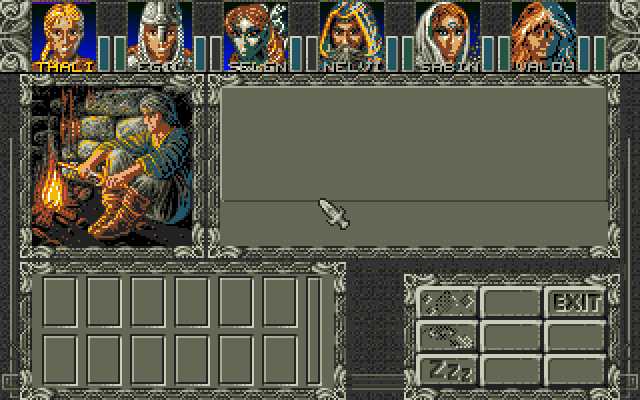
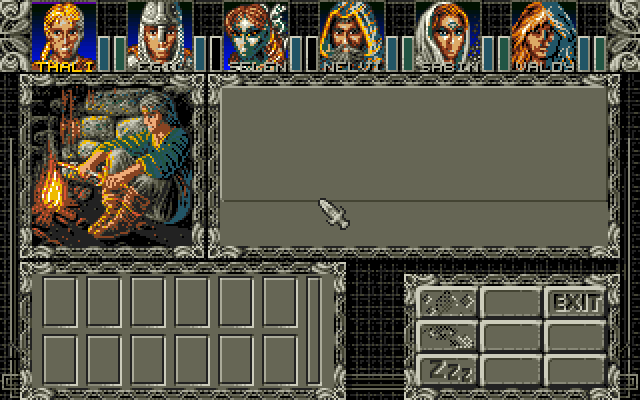
ST POC: value 0 of the layouts and UI graphics is black like on the Amiga
Put_unmasked_block (GRAPHICS.S) sets the bits of the base colour only where
the graphic is not 0 (Make_mask_blitter), so value 0 of the layouts and of
the 3 bit status block graphics is colour 0 (black), not colour 24. The grey
layout background in the UI palettes is no longer needed and removed again.
The empty portrait is drawn unmasked like in the original.

Claude-Session: https://claude.ai/code/session_017KUb8qa9fSBV81xJQCbgWy

diff --git a/AmbermoonST/tools/st_convert.py b/AmbermoonST/tools/st_convert.py
@@ -199,26 +199,16 @@ def st_graphic(pix, w, h):
     return bytes(out)
 
 
-# Layout background (ST slot 8, value 0 of the layouts) in the UI palettes : a dark grey instead of colour 24 of
-# Main_pal ($254, a dark green). The graphics which use colour 24 themselves (SP bar, portraits, items) get the
-# nearest other slot (colour 24 is one of the colours of the k-means there).
-LAYOUT_GREY = (51, 51, 51)
-
-
-def make_palette(palette, weights, ui_first=24, fixed=(), grey=False):
+def make_palette(palette, weights, ui_first=24, fixed=()):
     """16 colour palette with the slot layout described above. palette: 32 rgb, weights: 32 values.
     ui_first: first UI colour which gets a fixed slot (8 + colour - 24). In the map area colour 24 is not needed
     by the UI (value 0 of the layout and the buttons is drawn black), so slot 8 is another free slot there.
     fixed: colours which get the slots 1, 2, ... (e.g. white for the dragged items, see WHITE_SLOT).
-    grey: slot 8 is LAYOUT_GREY (see there).
     Returns (16 rgb, lookup table of 32 slots)."""
     ui = palette[ui_first:32]
-    if grey:
-        ui = [LAYOUT_GREY] + ui[1:]
     fix = [snap(palette[c], 4) for c in fixed]
-    own = [i for i in range(1, ui_first) if i not in fixed] + ([24] if grey else [])
-    points = [palette[i] for i in own]
-    w = [math.sqrt(weights[i]) for i in own]
+    points = [palette[i] for i in range(1, ui_first) if i not in fixed]
+    w = [math.sqrt(weights[i]) for i in range(1, ui_first) if i not in fixed]
     # k-means with the fixed and the UI colours fixed
     result = kmeans(points, w, fix + ui, 15, 4)
     free = result[len(fix) + len(ui):]
@@ -228,9 +218,6 @@ def make_palette(palette, weights, ui_first=24, fixed=(), grey=False):
     for i in range(32):
         if i == 0:
             lut.append(0)
-        elif i == 24 and grey:
-            li = to_lab(palette[i])
-            lut.append(min((j for j in range(1, 16) if j != 8), key=lambda j: dist(li, labs[j])))
         elif i >= ui_first:
             lut.append(8 + i - 24)
         elif i in fixed:
@@ -400,8 +387,8 @@ def main():
     write('LAYOUT7.BIN', st_graphic([v and 8 + v for v in layout7], 320, 163))
 
     layout = planar(data.read('Layouts.amb/001'), 320, 163, 3)
-    # Value 0 is colour 24 of the map palette, which is red in palette 7 (the background around the frames).
-    # It is drawn black (ST colour 0) instead.
+    # Value 0 of the layouts and of all 3 bit graphics with base colour 24 is black : Put_unmasked_block
+    # (GRAPHICS.S) sets the bits of the base colour only where the mask (Make_mask_blitter) is set.
     write('LAYOUT.BIN', st_graphic([v and 8 + v for v in layout], 320, 163))
 
     # ---------- status block area ----------
@@ -427,8 +414,7 @@ def main():
     # (the skin tones need them). White is fixed anyway, Lighter_blue (names) is close to a UI grey.
     weights[16] += 500                     # Yellow (name of the active member)
     weights[6] += 4000                     # LP bar (7, 6) must differ from the SP bar (24, 23)
-    weights[24] += 4000                    # (colour 24 needs an own slot, slot 8 is the layout grey)
-    ui16, ui_lut = make_palette(main_pal, weights, fixed=WHITE, grey=True)
+    ui16, ui_lut = make_palette(main_pal, weights, fixed=WHITE)
     write('UIPAL.BIN', palette_file(ui16, ui_lut))
     write('PORTR.BIN', b''.join(st_graphic([ui_lut[v] for v in p], 32, 34) for p in portraits))
     write('NAMES.BIN', names)
@@ -450,21 +436,21 @@ def main():
         for v in p:
             weights[v] += portrait_weight
     weights[16] += 2000                    # text colour (Yellow)
-    inv16, inv_lut = make_palette(main_pal, weights, fixed=WHITE, grey=True)
+    inv16, inv_lut = make_palette(main_pal, weights, fixed=WHITE)
     write('INVPAL.BIN', palette_file(inv16, inv_lut))
     write('OBJICONS.BIN', b''.join(st_graphic([inv_lut[v] for v in ic], 16, 16) for ic in obj_icons))
     write('PORTRI.BIN', b''.join(st_graphic([inv_lut[v] for v in p], 32, 34) for p in portraits))
     write('OBJECTS.BIN', decode_file(open(os.path.join(AMBERFILES, 'Objects.amb'), 'rb').read()))
-    for n in (2, 6):                       # inventory & character screen (colour 24 is the background)
+    for n in (2, 6):                       # inventory & character screen
         layout = planar(data.read(f'Layouts.amb/{n:03}'), 320, 163, 3)
-        write(f'LAYOUT{n}.BIN', st_graphic([8 + v for v in layout], 320, 163))
+        write(f'LAYOUT{n}.BIN', st_graphic([v and 8 + v for v in layout], 320, 163))
     # door & chest screen (layout 3) : the 80x80 pictures of doors and chests in the inventory palette (the
     # items look the same there, and the pictures nearly as good as with an own palette)
     for n in PICS80:
         write(f'P80_{n}.BIN', st_graphic([inv_lut[v] for v in planar(data.read(f'Pics_80x80.amb/{n:03}'), 80, 80, 5)],
                                          80, 80), quiet=True)
     layout = planar(data.read('Layouts.amb/003'), 320, 163, 3)
-    write('LAYOUT3.BIN', st_graphic([8 + v for v in layout], 320, 163))
+    write('LAYOUT3.BIN', st_graphic([v and 8 + v for v in layout], 320, 163))
     # the chests of the initial savegame (Save.00/Chest_data.amb : AMBR container with 256 chests)
     raw = open(os.path.join(AMBERFILES, 'Save.00', 'Chest_data.amb'), 'rb').read()
     count = struct.unpack('>H', raw[4:6])[0]
@@ -489,7 +475,7 @@ def main():
     # which are converted when they are loaded), the monster graphics, characters and groups, the combat
     # effects (5 bit, also converted when loaded) and the tactical icons in the inventory palette
     layout = planar(data.read('Layouts.amb/004'), 320, 163, 3)
-    write('LAYOUT4.BIN', st_graphic([8 + v for v in layout], 320, 163))
+    write('LAYOUT4.BIN', st_graphic([v and 8 + v for v in layout], 320, 163))
     bg_table = source_data('KERNEL/DATA.S', 'Combat_bg_2D_table')
     write('CBGTAB.BIN', bg_table)
     monsters = {}
@@ -581,7 +567,7 @@ def main():
     # dialogue screen (layout 8) : the portraits of all persons in the inventory palette (loaded when needed),
     # the dictionary and the character data & texts of the persons
     layout = planar(data.read('Layouts.amb/008'), 320, 163, 3)
-    write('LAYOUT8.BIN', st_graphic([8 + v for v in layout], 320, 163))
+    write('LAYOUT8.BIN', st_graphic([v and 8 + v for v in layout], 320, 163))
     for n in sorted(data.names):
         if n.startswith('Portraits.amb/') and n[-1] != '/':
             write(f'PT{int(n[-3:])}.BIN', st_graphic([inv_lut[v] for v in planar(data.read(n), 32, 34, 5)], 32, 34),
@@ -607,7 +593,7 @@ def main():
             weights[v] += 1
     for c in (4, 16, 22):
         weights[c] += 2000
-    chr16, chr_lut = make_palette(main_pal, weights, fixed=WHITE, grey=True)
+    chr16, chr_lut = make_palette(main_pal, weights, fixed=WHITE)
     write('CHARPAL.BIN', palette_file(chr16, chr_lut))
     write('PORTRC.BIN', b''.join(st_graphic([chr_lut[v] for v in p], 32, 34) for p in portraits))
     # the portraits of all party characters (joining) in the UI palette (PUI<n>.BIN) and in the character
@@ -659,10 +645,7 @@ def main():
             raw += source_data('KERNEL/CHIP_DATA.S', 'GFX_char_value_bar_frames')
         if len(raw) < w * h * 3 // 8:
             raise SystemExit(f'{label}: only {len(raw)} bytes')
-        if label.startswith('Button'):   # map area: value 0 (colour 24, red in palette 7) is drawn black
-            status += st_graphic([v and 8 + v for v in planar(raw, w, h, 3)], w, h)
-        else:
-            status += st_graphic([8 + v for v in planar(raw, w, h, 3)], w, h)
+        status += st_graphic([v and 8 + v for v in planar(raw, w, h, 3)], w, h)
     write('UIGFX.BIN', status)
     raw = source_data('KERNEL/CHIP_DATA.S', 'Status_icons')   # status icons for the status block
     write('STATICUI.BIN', b''.join(st_graphic([ui_lut[v] for v in planar(raw, 16, 16, 5, i * 160)], 16, 16)

diff --git a/AmbermoonST/README.md b/AmbermoonST/README.md
@@ -138,10 +138,8 @@ lists in `MODULES.S`): the status block (lines 0–36) uses the UI palette, the 
 For the status block, the colours of the LP bar (Amiga colours 7 and 6, blue) get their own ST colour, so
 that they stay different from the SP bar (24 and 23, green).
 
-In the palettes of the status block, the inventory and the character screen (`UIPAL`, `INVPAL`, `CHARPAL`),
-ST colour 8 is a dark grey ($333) instead of Amiga colour 24 (a dark green, $254): that is the background of
-the layouts (value 0), so the screens with layouts look grey. The graphics which use colour 24 themselves (the
-SP bar, portraits, items) get one of the chosen colours for it (it takes part in the k-means there).
+Value 0 of the layouts and of all 3 bit graphics with base colour 24 is black (ST colour 0), like on the
+Amiga, where `Put_unmasked_block` sets the bits of the base colour only where the graphic is not 0.
 
 The Amiga version uses one palette for the status block, the items and the portraits, because items can be
 dragged onto the portraits. Here the inventory screen has its own palette below the status block, chosen for
